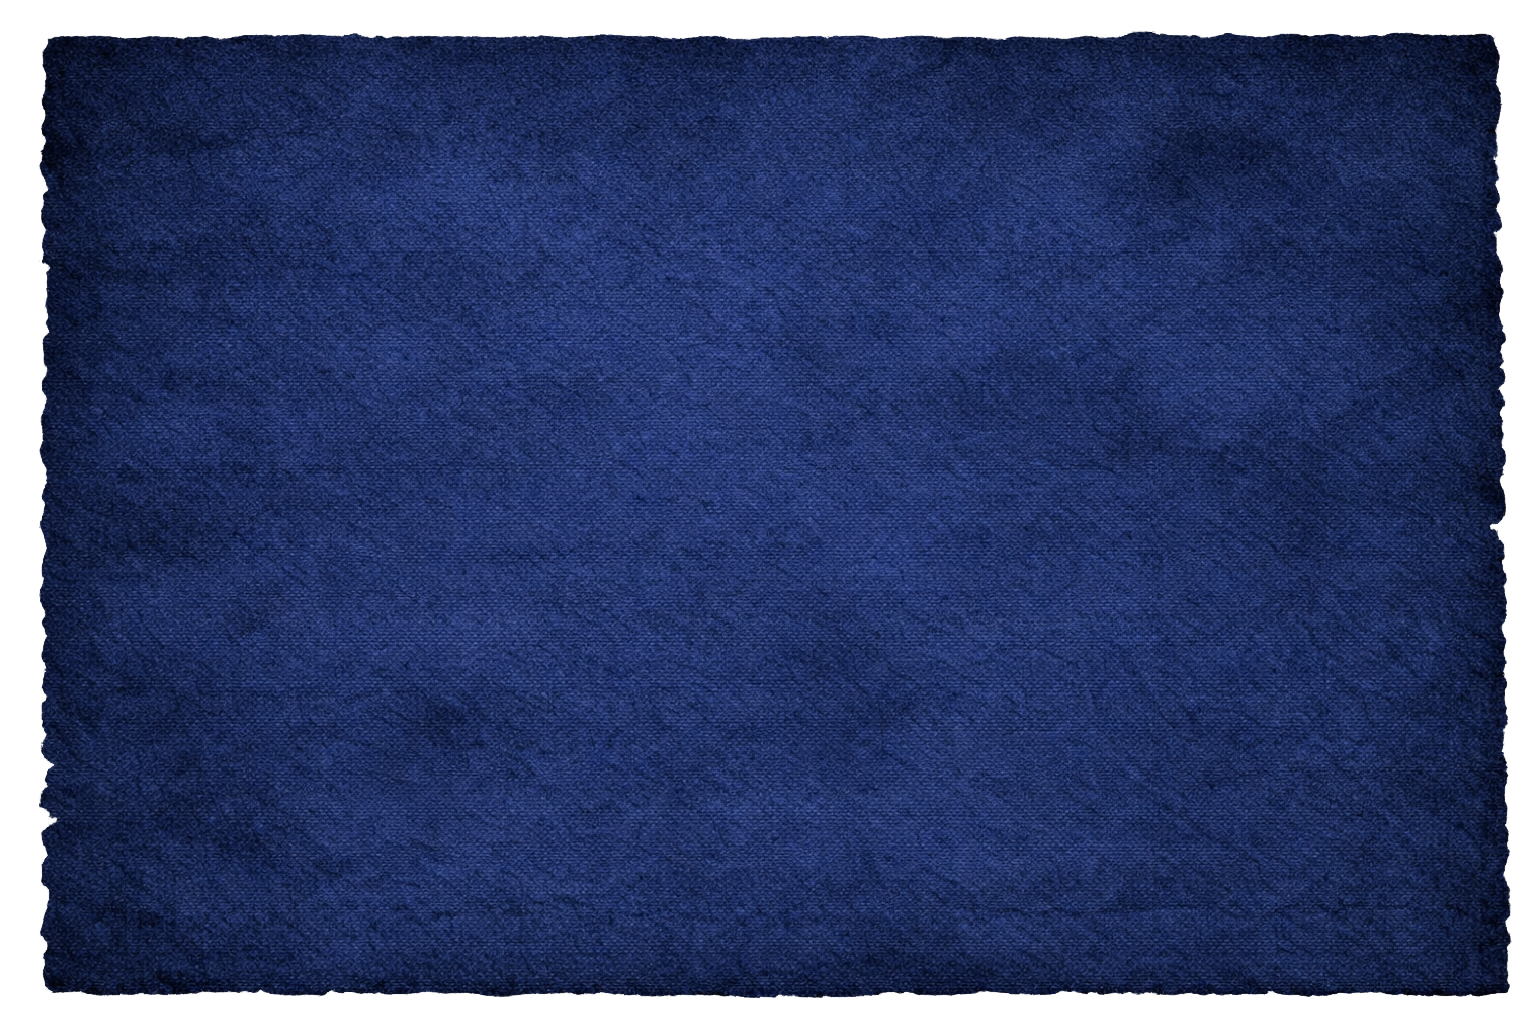
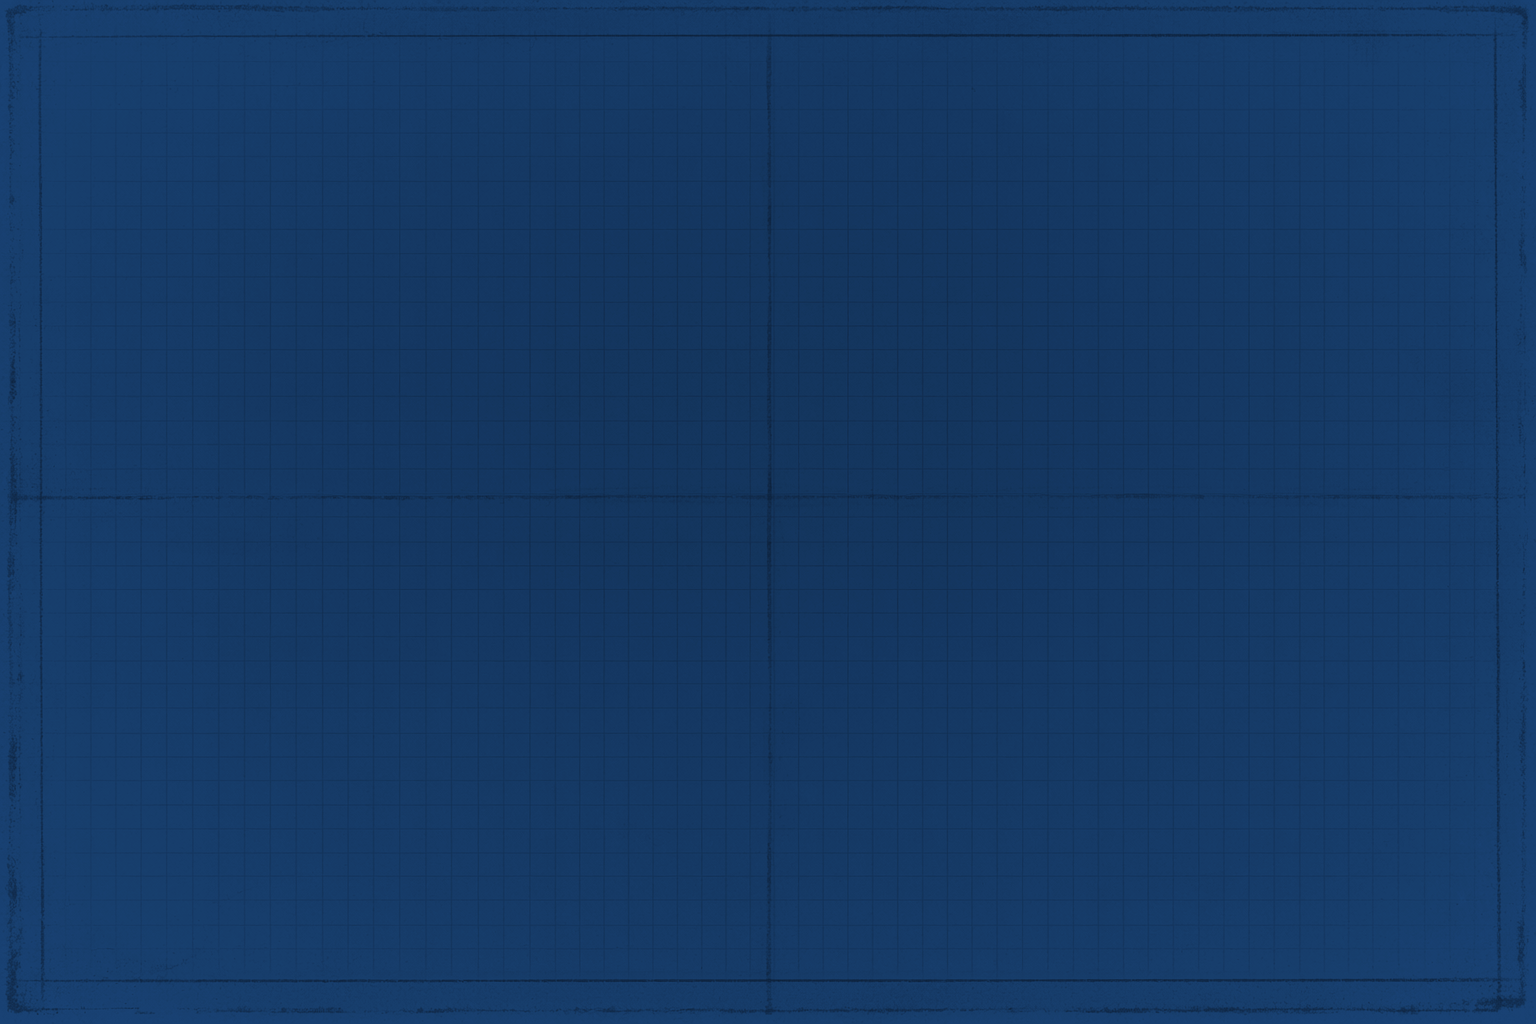
refactor(ui): bake heist palette into dark theme, replace backgrounds
No third theme option - dark and default ARE the heist themes.

- theme.py: DARK_THEME colors updated to Blueprint Navy heist palette
  (#0A1A2F bg, #4AA8FF accent, #C62828 danger, #C9B89A text_secondary)
  HEIST_THEME dict removed entirely; ThemeEngine toggle() back to 2-way
- settings.py: combo back to 2 options (Dark/Light); tooltip updated
- main_window.py: _set_theme_mode() simplified, icons back to moon/sun
- assets.py: remove heist->dark alias (no longer needed)
- docs/ui/default/backgrounds/background.png: replaced with blueprint texture
- docs/ui/dark/backgrounds/background-dark.png: navy-tinted blueprint texture
- docs/ui/dark/backgrounds/blueprint-texture.png: same navy version

diff --git a/helper-app/joycon_helper/ui/theme.py b/helper-app/joycon_helper/ui/theme.py
@@ -127,75 +127,7 @@ DARK_THEME: dict[str, Any] = {
     "name": "bind-bandit-dark",
     "is_dark": True,
     "colors": {
-        "bg":           "#0e1118",
-        "surface":      "#161a24",
-        "surface2":     "#1e2430",
-        "panel":        "#181e2a",
-        "text":         "#c8d4e4",
-        "text_secondary": "#7890aa",
-        "muted":        "#5a7090",
-        "border":       "#2a3648",
-        "border_light": "#222e3e",
-        "accent":       "#5a8ac0",
-        "accent_hover": "#6a9ad0",
-        "accent2":      "#4a9070",
-        "danger":       "#c05050",
-        "danger_hover": "#d06060",
-        "warning":      "#c09840",
-        "success":      "#4aa060",
-        "active":       "#4a9070",
-        "conflict":     "#c05050",
-        "modified":     "#c09840",
-        "selected":     "#5a8ac0",
-        "selected_bg":  "#1e2e44",
-        "pulse_bright": "#60d0a0",
-        "sidebar_bg":   "#0a0e14",
-        "sidebar_text": "#7890aa",
-        "sidebar_active": "#5a8ac0",
-        "sidebar_hover":  "#141a24",
-        "card_shadow":  "rgba(0, 0, 0, 0.25)",
-        "overlay_bg":   "rgba(0, 0, 0, 0.65)",
-        "scrollbar_bg": "#161a24",
-        "scrollbar_handle": "#2a3648",
-        "tooltip_bg":   "#1e2430",
-        "tooltip_text": "#c8d4e4",
-        "input_bg":     "#121620",
-        "input_border": "#2a3648",
-        "button_bg":    "#1e2430",
-        "button_hover": "#283040",
-        "button_pressed": "#303848",
-        "tab_active_bg":   "#161a24",
-        "tab_inactive_bg": "#0e1118",
-    },
-    "typography": {
-        "font_family": "Segoe UI",
-        "font_family_decorative": "Segoe Print",
-        "font_size": 10,
-        "font_size_sm": 9,
-        "font_size_lg": 12,
-        "font_size_xl": 16,
-        "font_size_title": 20,
-        "mono_family": "Cascadia Code, Consolas",
-        "mono_size": 10,
-    },
-    "spacing": {"xs": 4, "sm": 8, "md": 12, "lg": 16, "xl": 24, "xxl": 32},
-    "radii": {"sm": 6, "md": 10, "lg": 14, "xl": 20},
-    "shadows": {
-        "card": "0px 2px 8px rgba(0,0,0,0.20)",
-        "popup": "0px 8px 24px rgba(0,0,0,0.35)",
-        "sidebar": "2px 0px 8px rgba(0,0,0,0.25)",
-    },
-}
-
-# Heist-plan theme — nautical blueprint-board aesthetic from the style guide.
-# Colors derived from the Bind Bandit Heist-Plan UI Style Guide:
-#   Blueprint Navy #0A1A2F, Graphite Black #0B0B0C, Chalk White #F2F2F2,
-#   Red String Crimson #C62828, Tape Beige #C9B89A, Sepia Ink #6A4A2C,
-#   Blueprint Cyan Lines #4AA8FF, Pencil-Crayon Navy #1C2E4A
-HEIST_THEME: dict[str, Any] = {
-    "name": "heist-plan",
-    "is_dark": True,
-    "colors": {
+        # Blueprint Navy heist palette
         "bg":              "#0A1A2F",
         "surface":         "#0d2040",
         "surface2":        "#1C2E4A",
@@ -237,22 +169,22 @@ HEIST_THEME: dict[str, Any] = {
         "tab_inactive_bg": "#0A1A2F",
     },
     "typography": {
-        "font_family":           "IBM Plex Mono, Cascadia Code, Consolas",
-        "font_family_decorative": "Special Elite, Segoe Print",
-        "font_size":             10,
-        "font_size_sm":          9,
-        "font_size_lg":          12,
-        "font_size_xl":          16,
-        "font_size_title":       20,
-        "mono_family":           "IBM Plex Mono, Cascadia Code, Consolas",
-        "mono_size":             10,
+        "font_family": "Segoe UI",
+        "font_family_decorative": "Segoe Print",
+        "font_size": 10,
+        "font_size_sm": 9,
+        "font_size_lg": 12,
+        "font_size_xl": 16,
+        "font_size_title": 20,
+        "mono_family": "Cascadia Code, Consolas",
+        "mono_size": 10,
     },
     "spacing": {"xs": 4, "sm": 8, "md": 12, "lg": 16, "xl": 24, "xxl": 32},
-    "radii": {"sm": 4, "md": 8, "lg": 12, "xl": 16},
+    "radii": {"sm": 6, "md": 10, "lg": 14, "xl": 20},
     "shadows": {
-        "card":    "0px 4px 16px rgba(0,0,0,0.50)",
-        "popup":   "0px 10px 32px rgba(0,0,0,0.60)",
-        "sidebar": "2px 0px 12px rgba(0,0,0,0.50)",
+        "card": "0px 2px 8px rgba(0,0,0,0.20)",
+        "popup": "0px 8px 24px rgba(0,0,0,0.35)",
+        "sidebar": "2px 0px 8px rgba(0,0,0,0.25)",
     },
 }
 
@@ -260,7 +192,6 @@ HEIST_THEME: dict[str, Any] = {
 _THEMES: dict[str, Any] = {
     "light": LIGHT_THEME,
     "dark":  DARK_THEME,
-    "heist": HEIST_THEME,
 }
 
 
@@ -274,10 +205,9 @@ class ThemeEngine:
     def __init__(self, dark: bool | None = None, mode: str | None = None) -> None:
         """Initialise the theme engine.
 
-        *mode* (``"light"``, ``"dark"``, or ``"heist"``) takes priority over
-        the legacy *dark* boolean when both are supplied.  When neither is
-        given the system dark-mode preference is used (maps to ``"dark"`` or
-        ``"light"``).
+        *mode* (``"light"`` or ``"dark"``) takes priority over the legacy
+        *dark* boolean when both are supplied.  When neither is given the
+        system dark-mode preference is used.
         """
         if mode is not None:
             resolved = _THEMES.get(mode.lower(), DARK_THEME)
@@ -296,7 +226,7 @@ class ThemeEngine:
 
     @property
     def mode_name(self) -> str:
-        """Return the current mode name: ``"light"``, ``"dark"``, or ``"heist"``."""
+        """Return the current mode name: ``"light"`` or ``"dark"``."""
         return self._mode
 
     @property
@@ -316,7 +246,7 @@ class ThemeEngine:
         return self._theme["radii"].get(key, 6)
 
     def set_mode(self, mode: str) -> None:
-        """Switch to a named theme mode (``"light"``, ``"dark"``, ``"heist"``)."""
+        """Switch to a named theme mode (``"light"`` or ``"dark"``)."""
         resolved = _THEMES.get(mode.lower())
         if resolved is None:
             log.warning("Unknown theme mode %r, ignoring", mode)
@@ -325,10 +255,8 @@ class ThemeEngine:
         self._theme = resolved
 
     def toggle(self) -> None:
-        """Cycle: light → dark → heist → light …"""
-        order = ["light", "dark", "heist"]
-        next_idx = (order.index(self._mode) + 1) % len(order)
-        self.set_mode(order[next_idx])
+        """Toggle between light and dark."""
+        self.set_mode("light" if self._mode == "dark" else "dark")
 
     def generate_qss(self) -> str:
         c = self._theme["colors"]

diff --git a/helper-app/joycon_helper/ui/views/settings.py b/helper-app/joycon_helper/ui/views/settings.py
@@ -87,13 +87,14 @@ class SettingsView(QScrollArea):
 
         # Theme selector
         self._theme_combo = QComboBox()
-        self._theme_combo.addItems(["Dark", "Light", "Heist"])
-        _mode_to_idx = {"dark": 0, "light": 1, "heist": 2}
+        self._theme_combo.addItems(["Dark", "Light"])
+        _mode_to_idx = {"dark": 0, "light": 1}
         self._theme_combo.setCurrentIndex(
             _mode_to_idx.get(self._main.theme.mode_name, 0))
         self._theme_combo.setToolTip(
             "Application colour scheme\n"
-            "Heist: blueprint-navy tactical board aesthetic")
+            "Dark: blueprint-navy heist board\n"
+            "Light: warm parchment board")
         self._theme_combo.currentTextChanged.connect(self._on_theme_changed)
         form.addRow("Theme:", self._theme_combo)
 
@@ -418,7 +419,7 @@ class SettingsView(QScrollArea):
     def _on_theme_changed(self, value: str | int) -> None:
         # Accept both text (new) and legacy index (belt-and-suspenders).
         if isinstance(value, int):
-            value = ["dark", "light", "heist"][value] if value < 3 else "dark"
+            value = ["dark", "light"][value] if value < 2 else "dark"
         mode = value.lower()
         if mode != self._main.theme.mode_name:
             self._main._set_theme_mode(mode)

diff --git a/helper-app/joycon_helper/ui/main_window.py b/helper-app/joycon_helper/ui/main_window.py
@@ -745,13 +745,11 @@ class MainWindow(QMainWindow):
     # -----------------------------------------------------------------
 
     def _set_theme_mode(self, mode: str) -> None:
-        """Switch to a named theme ("light", "dark", or "heist") and refresh the UI."""
+        """Switch to a named theme ("light" or "dark") and refresh the UI."""
         self.theme.set_mode(mode)
-        # Heist uses the same dark-style device images as the dark theme.
-        asset_variant = "dark" if self.theme.is_dark or mode == "heist" else "default"
+        asset_variant = "dark" if self.theme.is_dark else "default"
         self.assets.set_theme(asset_variant)
-        icons = {"dark": "🌙", "heist": "🔦", "light": "☀"}
-        self._theme_btn.setText(icons.get(mode, "🌙"))
+        self._theme_btn.setText("🌙" if self.theme.is_dark else "☀")
         self._apply_theme()
 
     def _toggle_theme(self) -> None:

diff --git a/helper-app/joycon_helper/ui/assets.py b/helper-app/joycon_helper/ui/assets.py
@@ -70,8 +70,7 @@ def ui_bundle_search_roots() -> list[Path]:
 
 
 def device_image_search_roots(theme: str = "default") -> list[Path]:
-    # The heist theme shares the dark device images (same navy/dark tone).
-    _asset_theme = "dark" if theme in ("dark", "heist") else "default"
+    _asset_theme = "dark" if theme == "dark" else "default"
     bundle_name = ".ui-bundle-dark" if _asset_theme == "dark" else ".ui-bundle"
     roots: list[Path] = []
     try:
